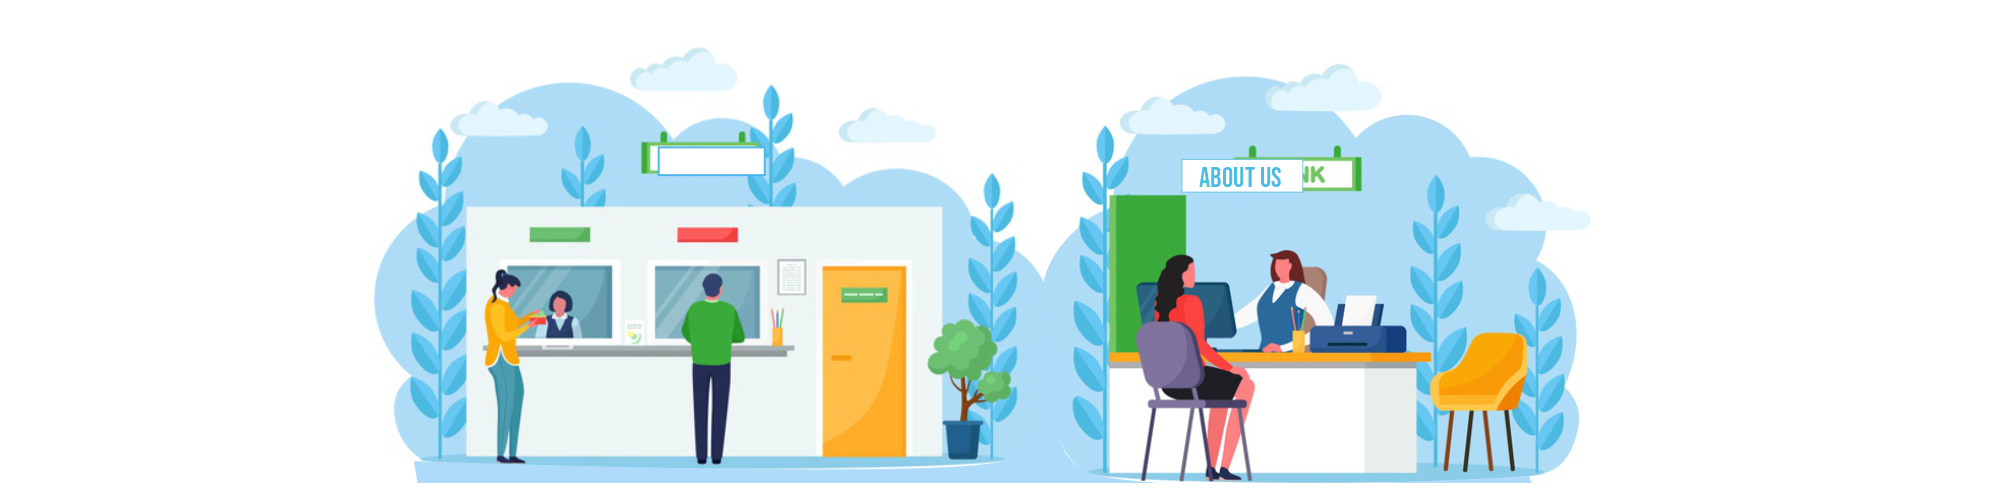
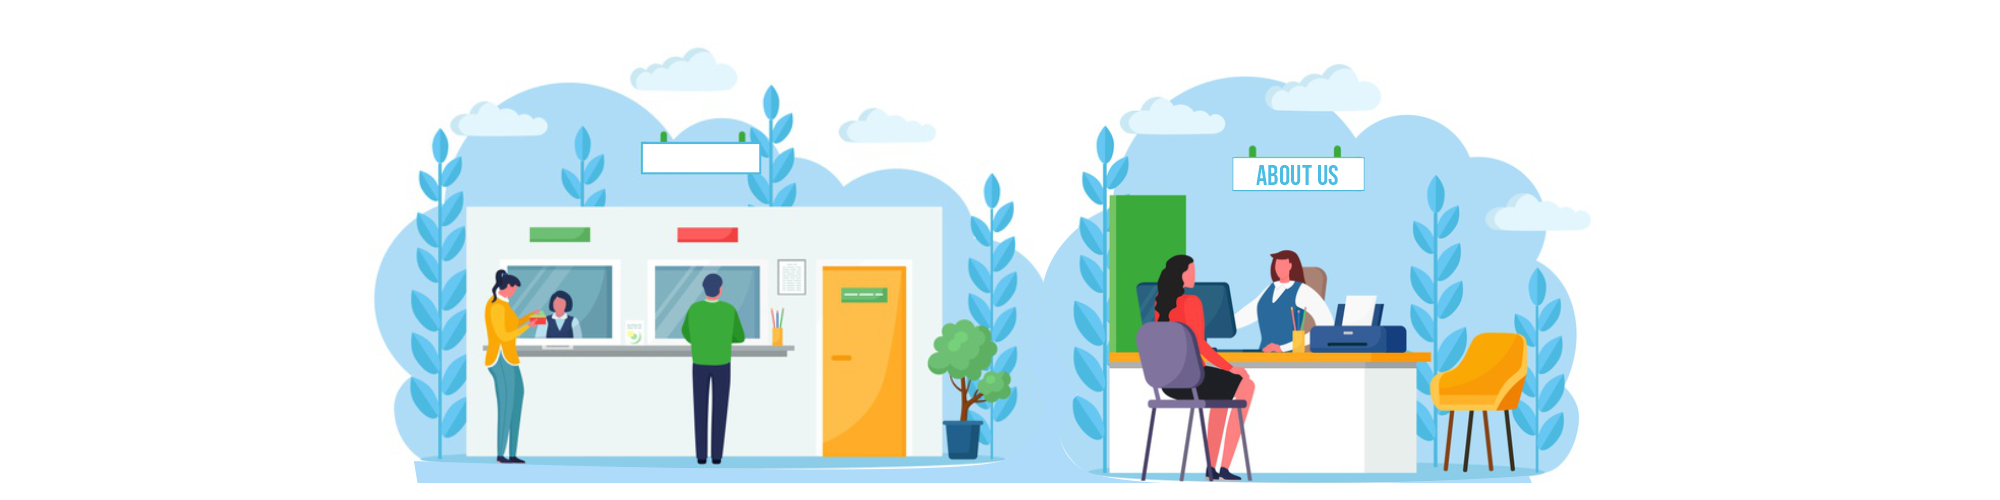
(Fixed) images added.

Changed region(s): [[0.589, 0.3, 0.682, 0.39], [0.31, 0.27, 0.403, 0.36]]

diff --git a/app/assets/stylesheets/app.scss b/app/assets/stylesheets/app.scss
@@ -1,3 +1,7 @@
+.meter-img {
+  width: 50%;
+  margin-top: 15px;
+}
 .cc-pincode, .cc-off-pincode{
   display: none;
   color: green;
@@ -77,9 +81,9 @@
 }
 
 #pre-apv-banner {
-  background-image: url(./pre-approved.png);
-  height: 400px;
-  background-size: contain;
+  background-image: url(./pre-approved.jpg);
+  height: 450px;
+  background-size: cover;
   background-repeat: no-repeat;
   margin-top: 110px;
   width: 100%;
@@ -88,19 +92,37 @@
 
 #abt-us-banner {
   background-image: url(./about-us.png);
-  height: 400px;
+  height: 450px;
   background-size: contain;
   background-repeat: round;
   margin-top: 110px;
   width: 100%;
 }
 
+#franchise-banner {
+  background-image: url(./frenchise.jpg);
+  height: 450px;
+  background-size: contain;
+  background-repeat: round;
+  margin-top: 88px;
+  width: 100%;
+}
+
+#career-banner {
+  background-image: url(./career.jpg);
+  height: 450px;
+  background-size: contain;
+  background-repeat: round;
+  margin-top: 85px;
+  width: 100%;
+}
+
 #emi-calc-banner {
-  background-image: url(./emi-calculator.png);
+  background-image: url(./emi-calculator.jpg);
   height: 430px;
   background-size: contain;
   background-repeat: no-repeat;
-  margin-top: 110px;
+  margin-top: 85px;
   width: 100%;
 }
 

diff --git a/app/assets/stylesheets/home.scss b/app/assets/stylesheets/home.scss
@@ -9,17 +9,21 @@
   .owl-nav .owl-next {
     right: 10px;
   }
+  .owl-next:focus, .owl-prev:focus {
+    outline: 0px dotted;
+    outline: none;
+  }
   img {
     border-bottom: 1px solid #ececec;
   }
   .img1 {
-    background: url(./carosel/desktop/credit-card-banner.png) top center no-repeat;
+    background: url(./carosel/desktop/credit-card-banner.jpg) top center no-repeat;
     height: 550px;
     background-size: contain;
     margin-top: 70px;
   }
   .img2 {
-    background: url(./carosel/desktop/home-loan-banner.png) top center no-repeat;
+    background: url(./carosel/desktop/home-loan-banner.jpg) top center no-repeat;
     height: 550px;
     background-size: contain;
     margin-top: 70px;

diff --git a/vendor/assets/css/style.css b/vendor/assets/css/style.css
@@ -1305,7 +1305,7 @@ table.right_table {
 	position: relative;
 	display: block;
 	z-index: 22;
-	margin-bottom: -110px;
+	margin-bottom: -50px;
 }
 
 .boxed_layout .banner-wrap {
